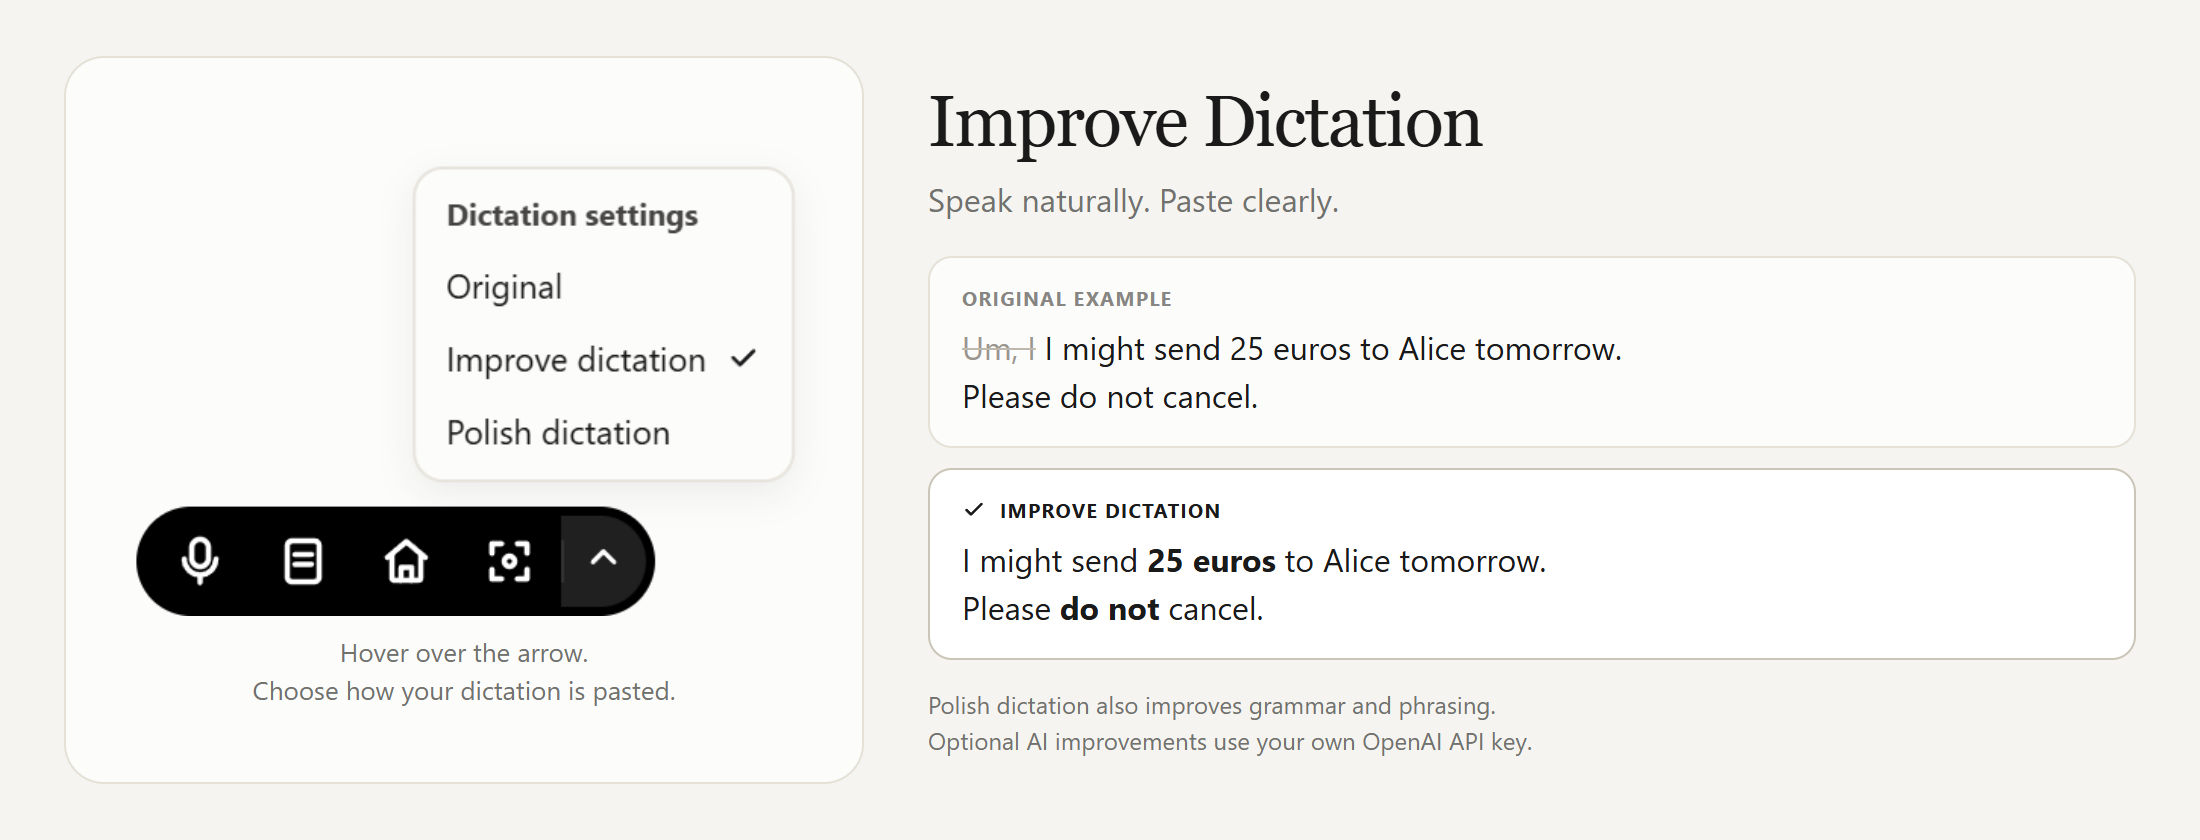
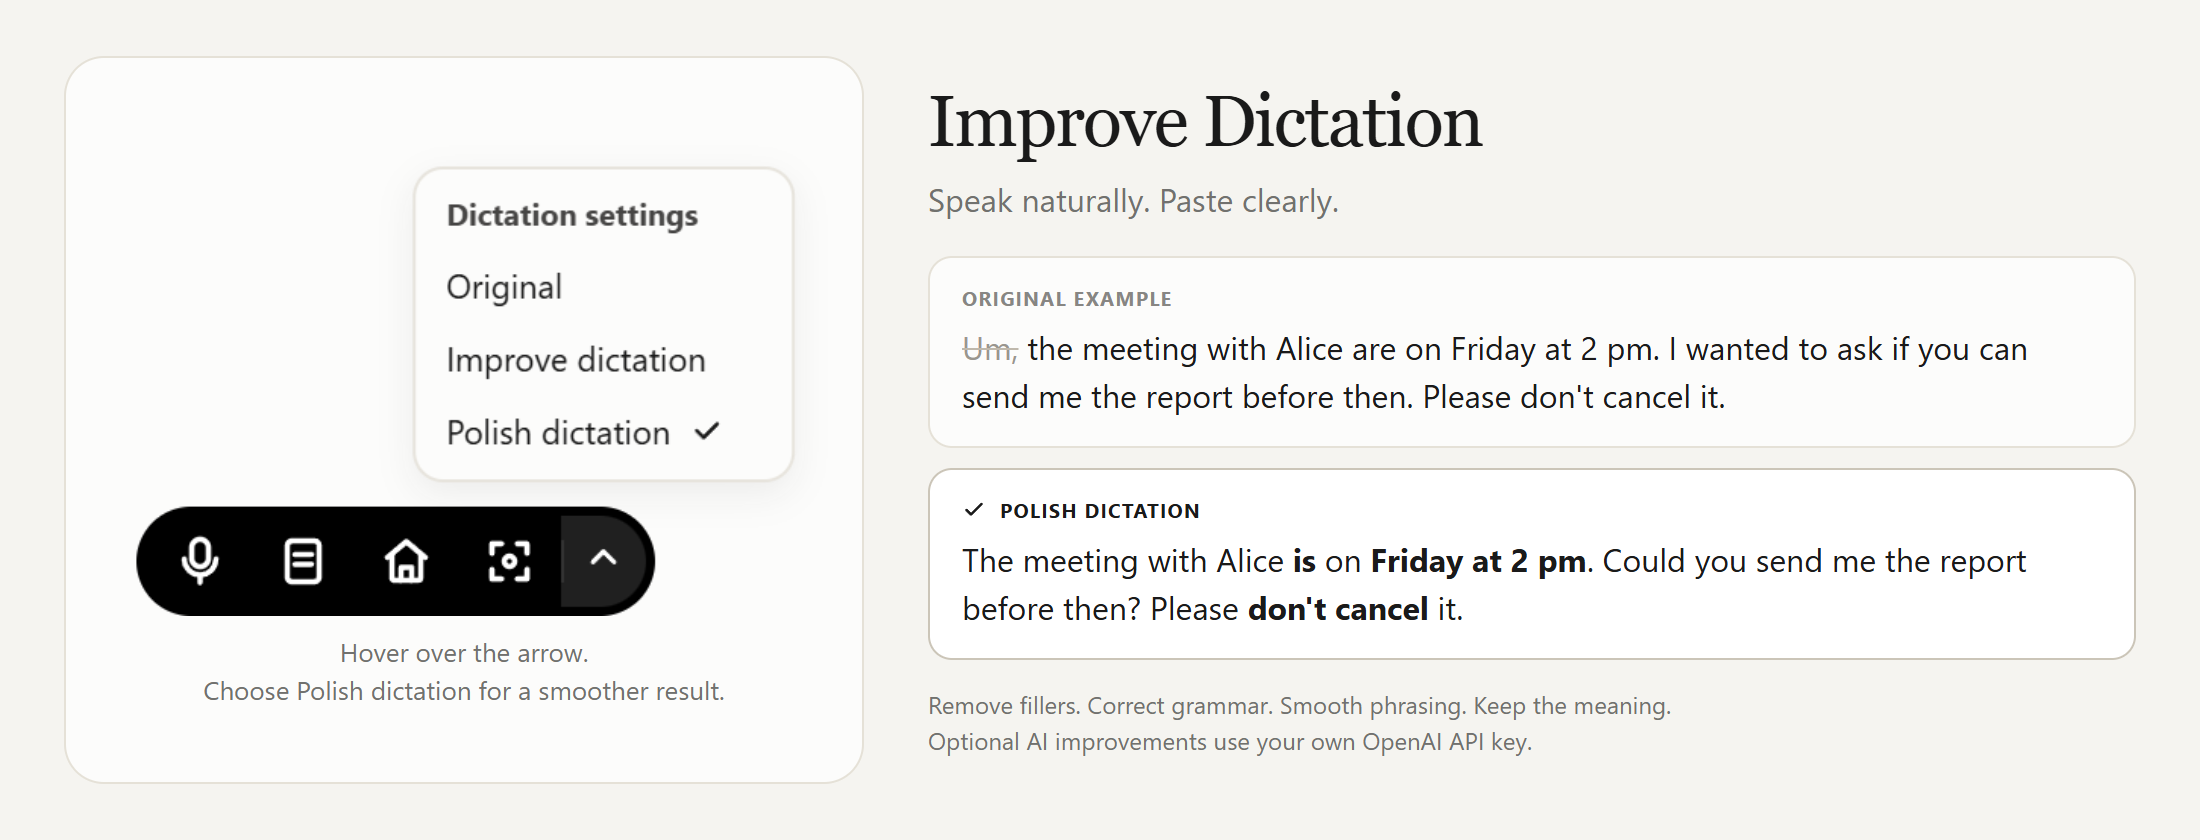
docs: show Polish dictation before and after in feature image

diff --git a/docs/preview-clean-dictation.html b/docs/preview-clean-dictation.html
@@ -19,9 +19,9 @@ body{padding:28px 32px;display:grid;grid-template-columns:400px 1fr;gap:32px;ali
 </style>
 </head>
 <body>
-<div class="visual"><img src="clean-dictation-menu.png" alt="Actual OpenFlow bubble and compact Dictation settings menu with Original, Improve dictation, and Polish dictation."><p>Hover over the arrow.<br>Choose how your dictation is pasted.</p></div>
+<div class="visual"><img src="clean-dictation-menu.png" alt="Actual OpenFlow bubble and compact Dictation settings menu with Polish dictation selected."><p>Hover over the arrow.<br>Choose Polish dictation for a smoother result.</p></div>
 <div class="copy"><h1>Improve Dictation</h1><p class="subtitle">Speak naturally. Paste clearly.</p>
-<div class="example"><div class="label">Original example</div><p><span class="filler">Um, I</span> I might send 25 euros to Alice tomorrow.<br>Please do not cancel.</p></div>
-<div class="example result"><div class="label"><svg viewBox="0 0 16 16" fill="none" stroke="currentColor" stroke-width="1.7" stroke-linecap="round" stroke-linejoin="round"><path d="m3 8 3 3 7-7"/></svg>Improve dictation</div><p>I might send <strong>25 euros</strong> to Alice tomorrow.<br>Please <strong>do not</strong> cancel.</p></div>
-<p class="footer">Polish dictation also improves grammar and phrasing.<br>Optional AI improvements use your own OpenAI API key.</p></div>
+<div class="example"><div class="label">Original example</div><p><span class="filler">Um,</span> the meeting with Alice are on Friday at 2 pm. I wanted to ask if you can send me the report before then. Please don't cancel it.</p></div>
+<div class="example result"><div class="label"><svg viewBox="0 0 16 16" fill="none" stroke="currentColor" stroke-width="1.7" stroke-linecap="round" stroke-linejoin="round"><path d="m3 8 3 3 7-7"/></svg>Polish dictation</div><p>The meeting with Alice <strong>is</strong> on <strong>Friday at 2 pm</strong>. Could you send me the report before then? Please <strong>don't cancel</strong> it.</p></div>
+<p class="footer">Remove fillers. Correct grammar. Smooth phrasing. Keep the meaning.<br>Optional AI improvements use your own OpenAI API key.</p></div>
 </body></html>

diff --git a/README.md b/README.md
@@ -31,7 +31,7 @@ When idle, the floating bar collapses into a subtle, symmetrically clipped pure-
 Speak naturally, then choose how your words are pasted — directly from the floating bubble.
 
 <p align="center">
-  <img src="docs/clean-dictation.png" alt="OpenFlow Improve Dictation: the actual compact bubble menu and a before-and-after example that removes fillers while preserving names, amounts, and negation." width="100%">
+  <img src="docs/clean-dictation.png" alt="OpenFlow Improve Dictation: Polish dictation selected in the bubble, with a before-and-after example removing fillers, correcting grammar, and smoothing phrasing while preserving names, dates, times, and negation." width="100%">
 </p>
 
 Hover over the arrow on the right of the bubble to open **Dictation settings**:
